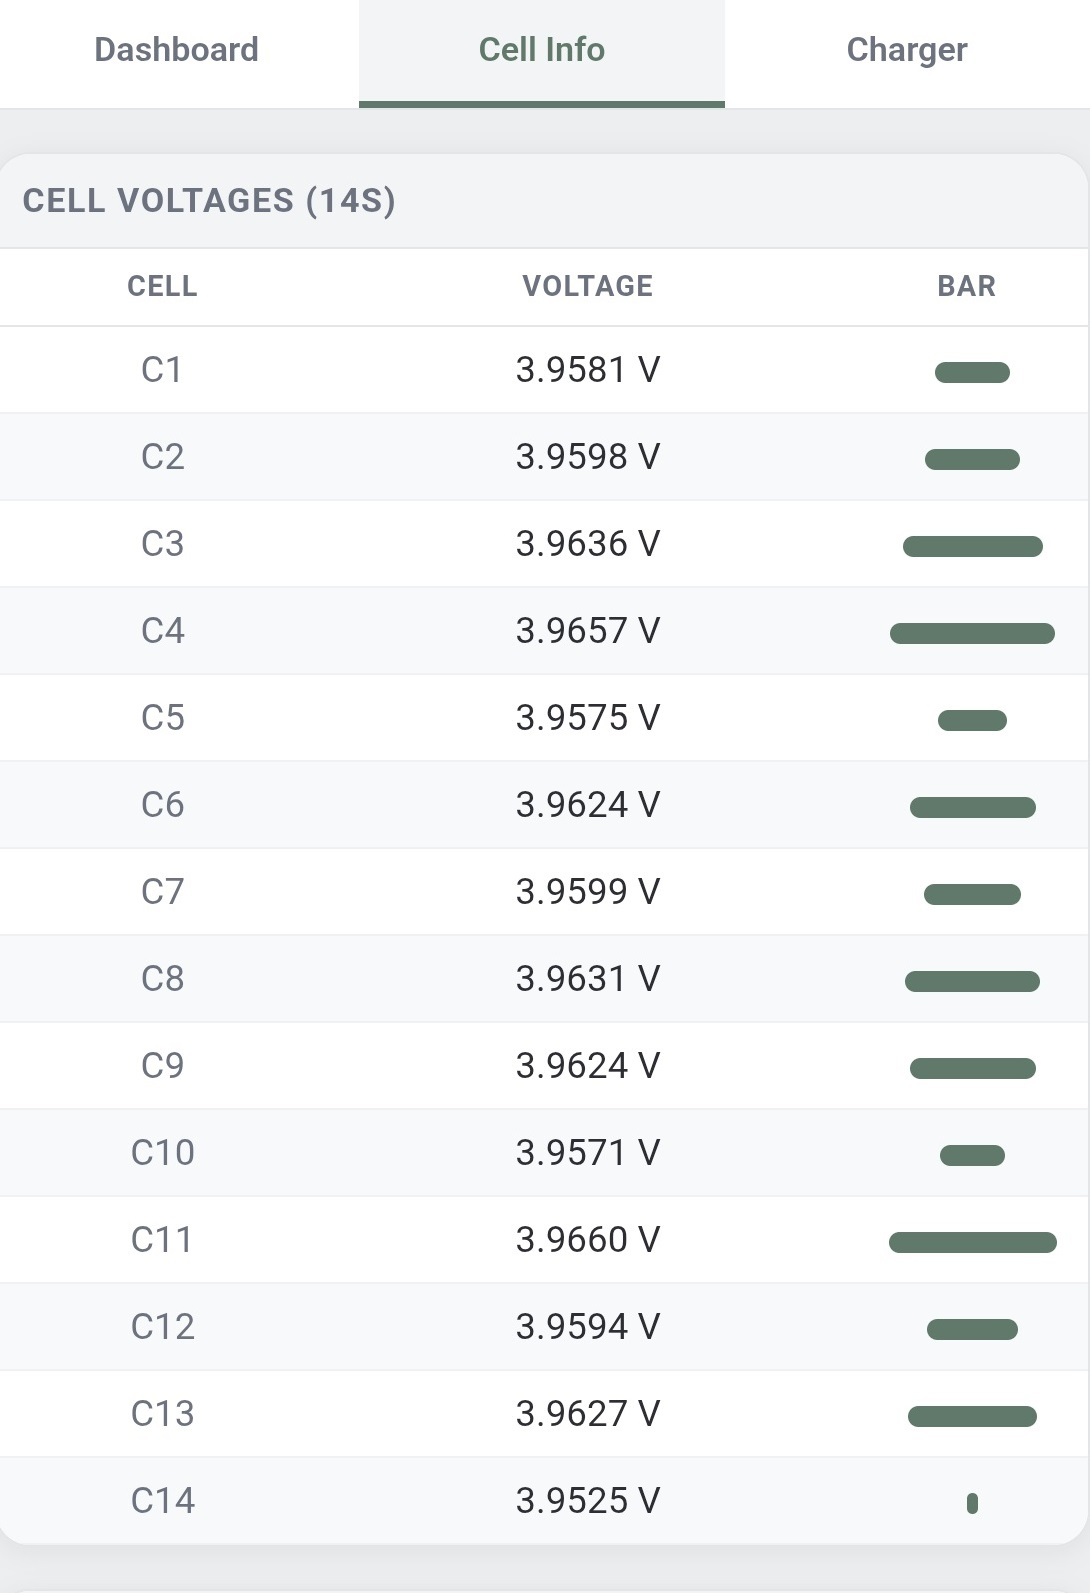
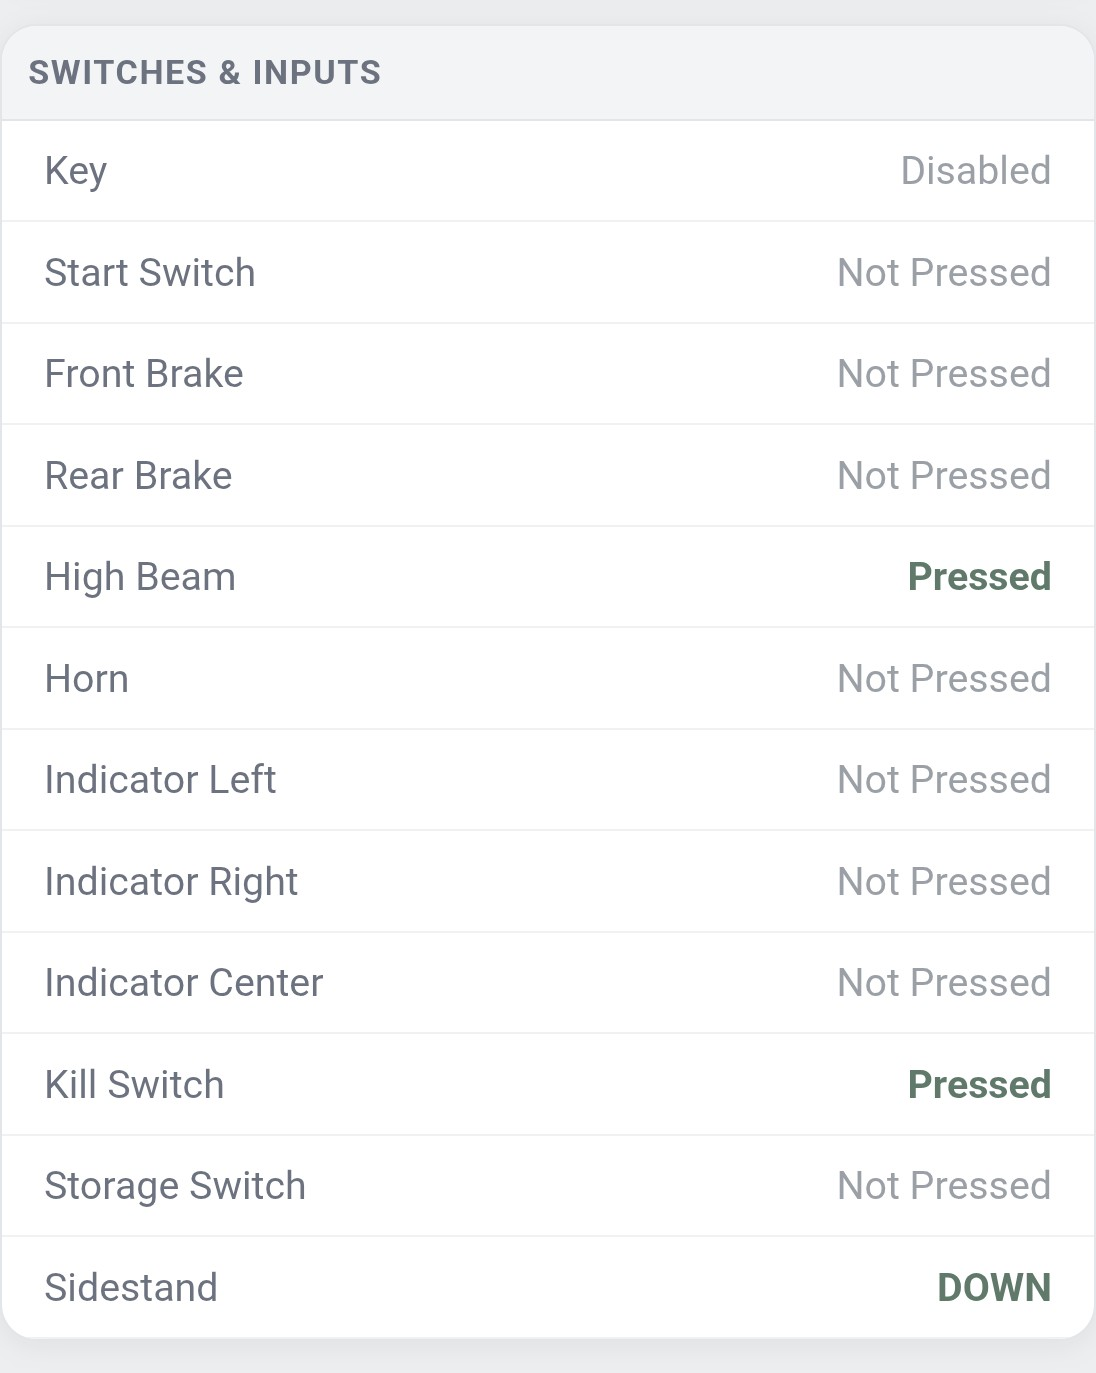
Site: move See It In Action above features, swipeable demo carousel (demo1-8)

diff --git a/docs/index.html b/docs/index.html
@@ -289,6 +289,64 @@
       color: white;
       text-shadow: 0 2px 10px rgba(0,0,0,0.8);
     }
+    .demo-carousel {
+      position: relative;
+      max-width: 860px;
+      margin: 0 auto;
+    }
+    .demo-track {
+      display: flex;
+      overflow-x: auto;
+      scroll-snap-type: x mandatory;
+      -webkit-overflow-scrolling: touch;
+      scrollbar-width: none;
+      border-radius: 16px;
+      border: 1px solid var(--border);
+      background: #0f1115;
+    }
+    .demo-track::-webkit-scrollbar { display: none; }
+    .demo-slide {
+      flex: 0 0 100%;
+      scroll-snap-align: start;
+    }
+    .demo-slide img {
+      display: block;
+      width: 100%;
+      height: 620px;
+      object-fit: contain;
+      background: #0f1115;
+    }
+    .demo-btn {
+      position: absolute;
+      top: 50%;
+      transform: translateY(-50%);
+      z-index: 5;
+      width: 46px;
+      height: 46px;
+      border-radius: 50%;
+      border: 1px solid var(--border);
+      background: rgba(15, 17, 21, 0.85);
+      color: var(--text);
+      font-size: 20px;
+      cursor: pointer;
+      display: flex;
+      align-items: center;
+      justify-content: center;
+      transition: background 0.2s, border-color 0.2s;
+      backdrop-filter: blur(6px);
+    }
+    .demo-btn:hover {
+      background: rgba(40, 44, 52, 0.95);
+      border-color: var(--primary);
+    }
+    .demo-btn.prev { left: 14px; }
+    .demo-btn.next { right: 14px; }
+    @media (max-width: 640px) {
+      .demo-slide img { height: 480px; }
+      .demo-btn { width: 38px; height: 38px; font-size: 16px; }
+      .demo-btn.prev { left: 8px; }
+      .demo-btn.next { right: 8px; }
+    }
 
     /* CTA Section */
     .cta-section {
@@ -586,6 +644,24 @@
     </div>
   </header>
 
+  <div class="action-section">
+    <h2 class="section-title animate-on-scroll" style="margin-bottom:60px;">See It In Action</h2>
+    <div class="demo-carousel animate-on-scroll">
+      <button class="demo-btn prev" onclick="demoScroll(-1)" aria-label="Previous image">&#10094;</button>
+      <div class="demo-track" id="demoTrack">
+        <div class="demo-slide"><img src="images/demo1.jpg" loading="lazy" alt="A-OBD Demo 1"></div>
+        <div class="demo-slide"><img src="images/demo2.png" loading="lazy" alt="A-OBD Demo 2"></div>
+        <div class="demo-slide"><img src="images/demo3.png" loading="lazy" alt="A-OBD Demo 3"></div>
+        <div class="demo-slide"><img src="images/demo4.png" loading="lazy" alt="A-OBD Demo 4"></div>
+        <div class="demo-slide"><img src="images/demo5.png" loading="lazy" alt="A-OBD Demo 5"></div>
+        <div class="demo-slide"><img src="images/demo6.png" loading="lazy" alt="A-OBD Demo 6"></div>
+        <div class="demo-slide"><img src="images/demo7.png" loading="lazy" alt="A-OBD Demo 7"></div>
+        <div class="demo-slide"><img src="images/demo8.png" loading="lazy" alt="A-OBD Demo 8"></div>
+      </div>
+      <button class="demo-btn next" onclick="demoScroll(1)" aria-label="Next image">&#10095;</button>
+    </div>
+  </div>
+
   <div class="section">
     <h2 class="section-title animate-on-scroll">Unlock Hidden <span>Telemetry</span></h2>
     <p class="section-subtitle animate-on-scroll">Comprehensive real-time insights delivered directly to your device.</p>
@@ -660,39 +736,6 @@
           <li>Multi-Line Charts: Battery, Motor, Distance &amp; Ride Mode</li>
           <li>CSV Export from Browser</li>
         </ul>
-      </div>
-    </div>
-  </div>
-
-  <div class="action-section">
-    <h2 class="section-title animate-on-scroll" style="margin-bottom:60px;">See It In Action</h2>
-    
-    <div class="action-grid">
-      <!-- 1: Seamless Integration -->
-      <div class="action-item animate-on-scroll delay-1">
-        <img src="images/hero.jpg" alt="A-OBD in Action">
-        <div class="overlay"><h4>Seamless Integration</h4></div>
-      </div>
-      
-      <!-- 2: Real-time Telemetry (Paired) -->
-      <div class="action-item animate-on-scroll delay-2" style="display: flex;">
-        <img src="images/demo.jpg" style="width: 50%; object-fit: contain; filter: brightness(0.9); padding: 15px; border-right: 1px solid var(--border);" alt="A-OBD Hardware Setup">
-        <img src="images/demo2.jpg" style="width: 50%; object-fit: contain; padding: 15px; filter: brightness(1);" alt="A-OBD Web App Interface">
-        <div class="overlay"><h4>Real-time Telemetry on the Go</h4></div>
-      </div>
-      
-      <!-- 3: Hardware Details (Paired) -->
-      <div class="action-item split-view animate-on-scroll delay-1">
-        <img src="images/1.jpg" style="border-right: 1px solid var(--border);" alt="A-OBD Compact Design">
-        <img src="images/2.jpg" alt="A-OBD PCB">
-        <div class="overlay"><h4>Compact & Clean Design</h4></div>
-      </div>
-      
-      <!-- 4: Clean Installation (Paired) -->
-      <div class="action-item split-view animate-on-scroll delay-2">
-        <img src="images/boot-cover-2.JPG" loading="lazy" style="border-right: 1px solid var(--border);" alt="A-OBD Installation 1">
-        <img src="images/boot-cover.jpg" loading="lazy" alt="A-OBD Installation 2">
-        <div class="overlay"><h4>100% Plug & Play Wiring</h4></div>
       </div>
     </div>
   </div>
@@ -1095,6 +1138,11 @@
         btn.classList.remove('zap');
         if (callback) callback();
       }, 500);
+    }
+
+    function demoScroll(dir) {
+      const track = document.getElementById('demoTrack');
+      track.scrollBy({ left: dir * track.clientWidth, behavior: 'smooth' });
     }
 
     function openOrderModal() {
